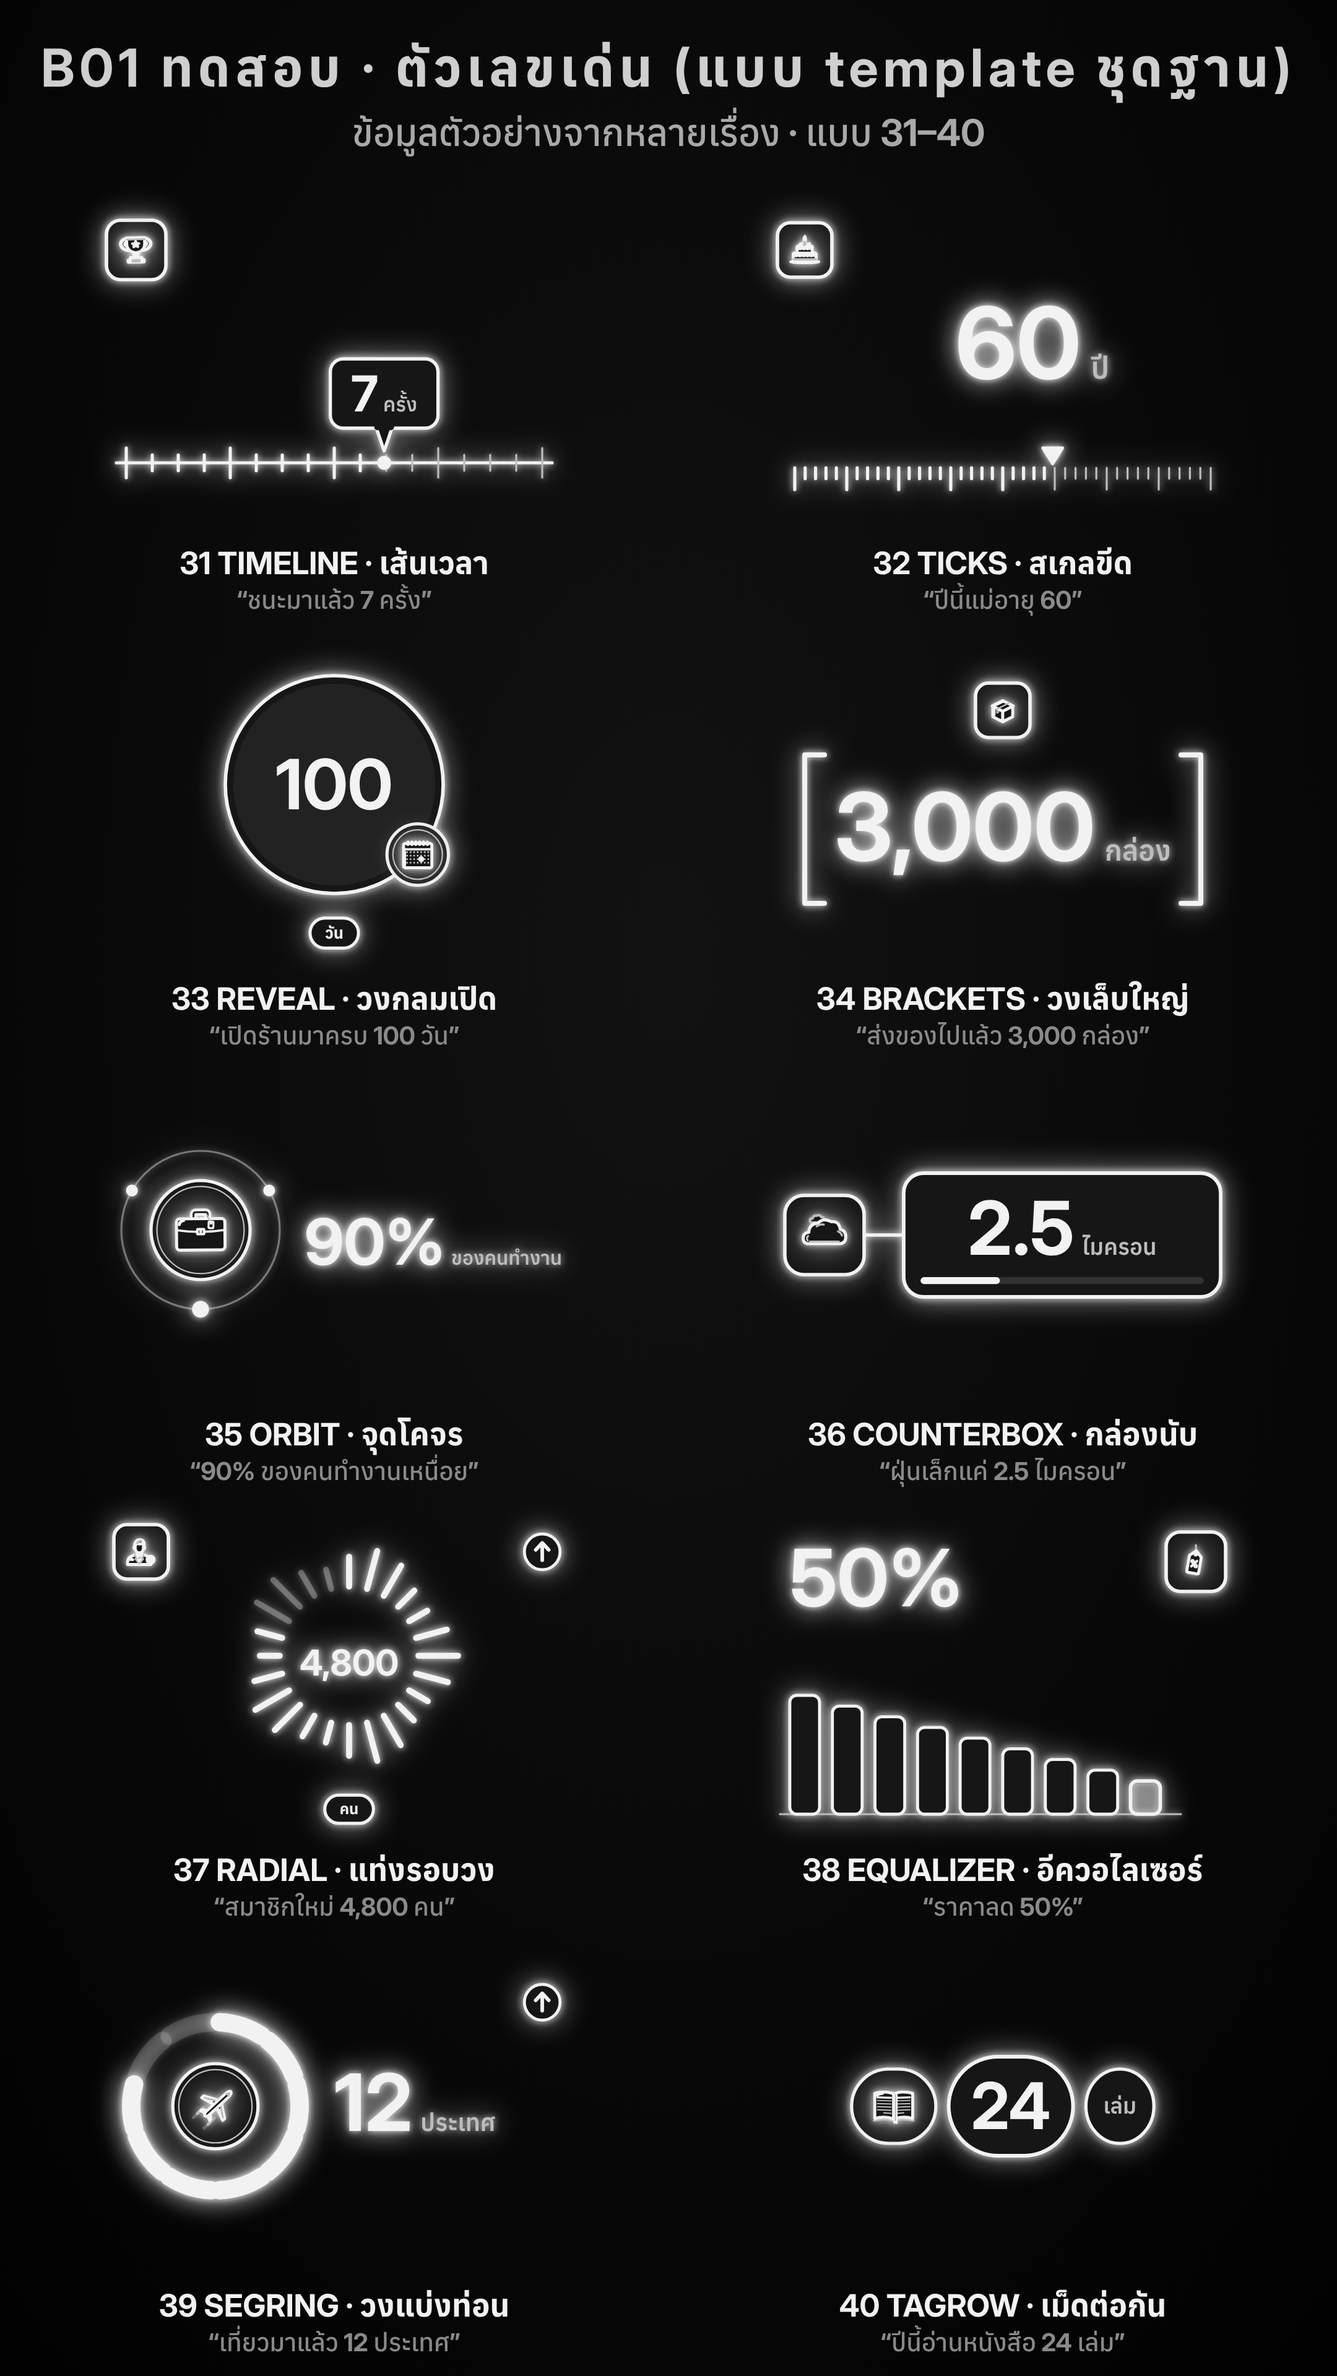
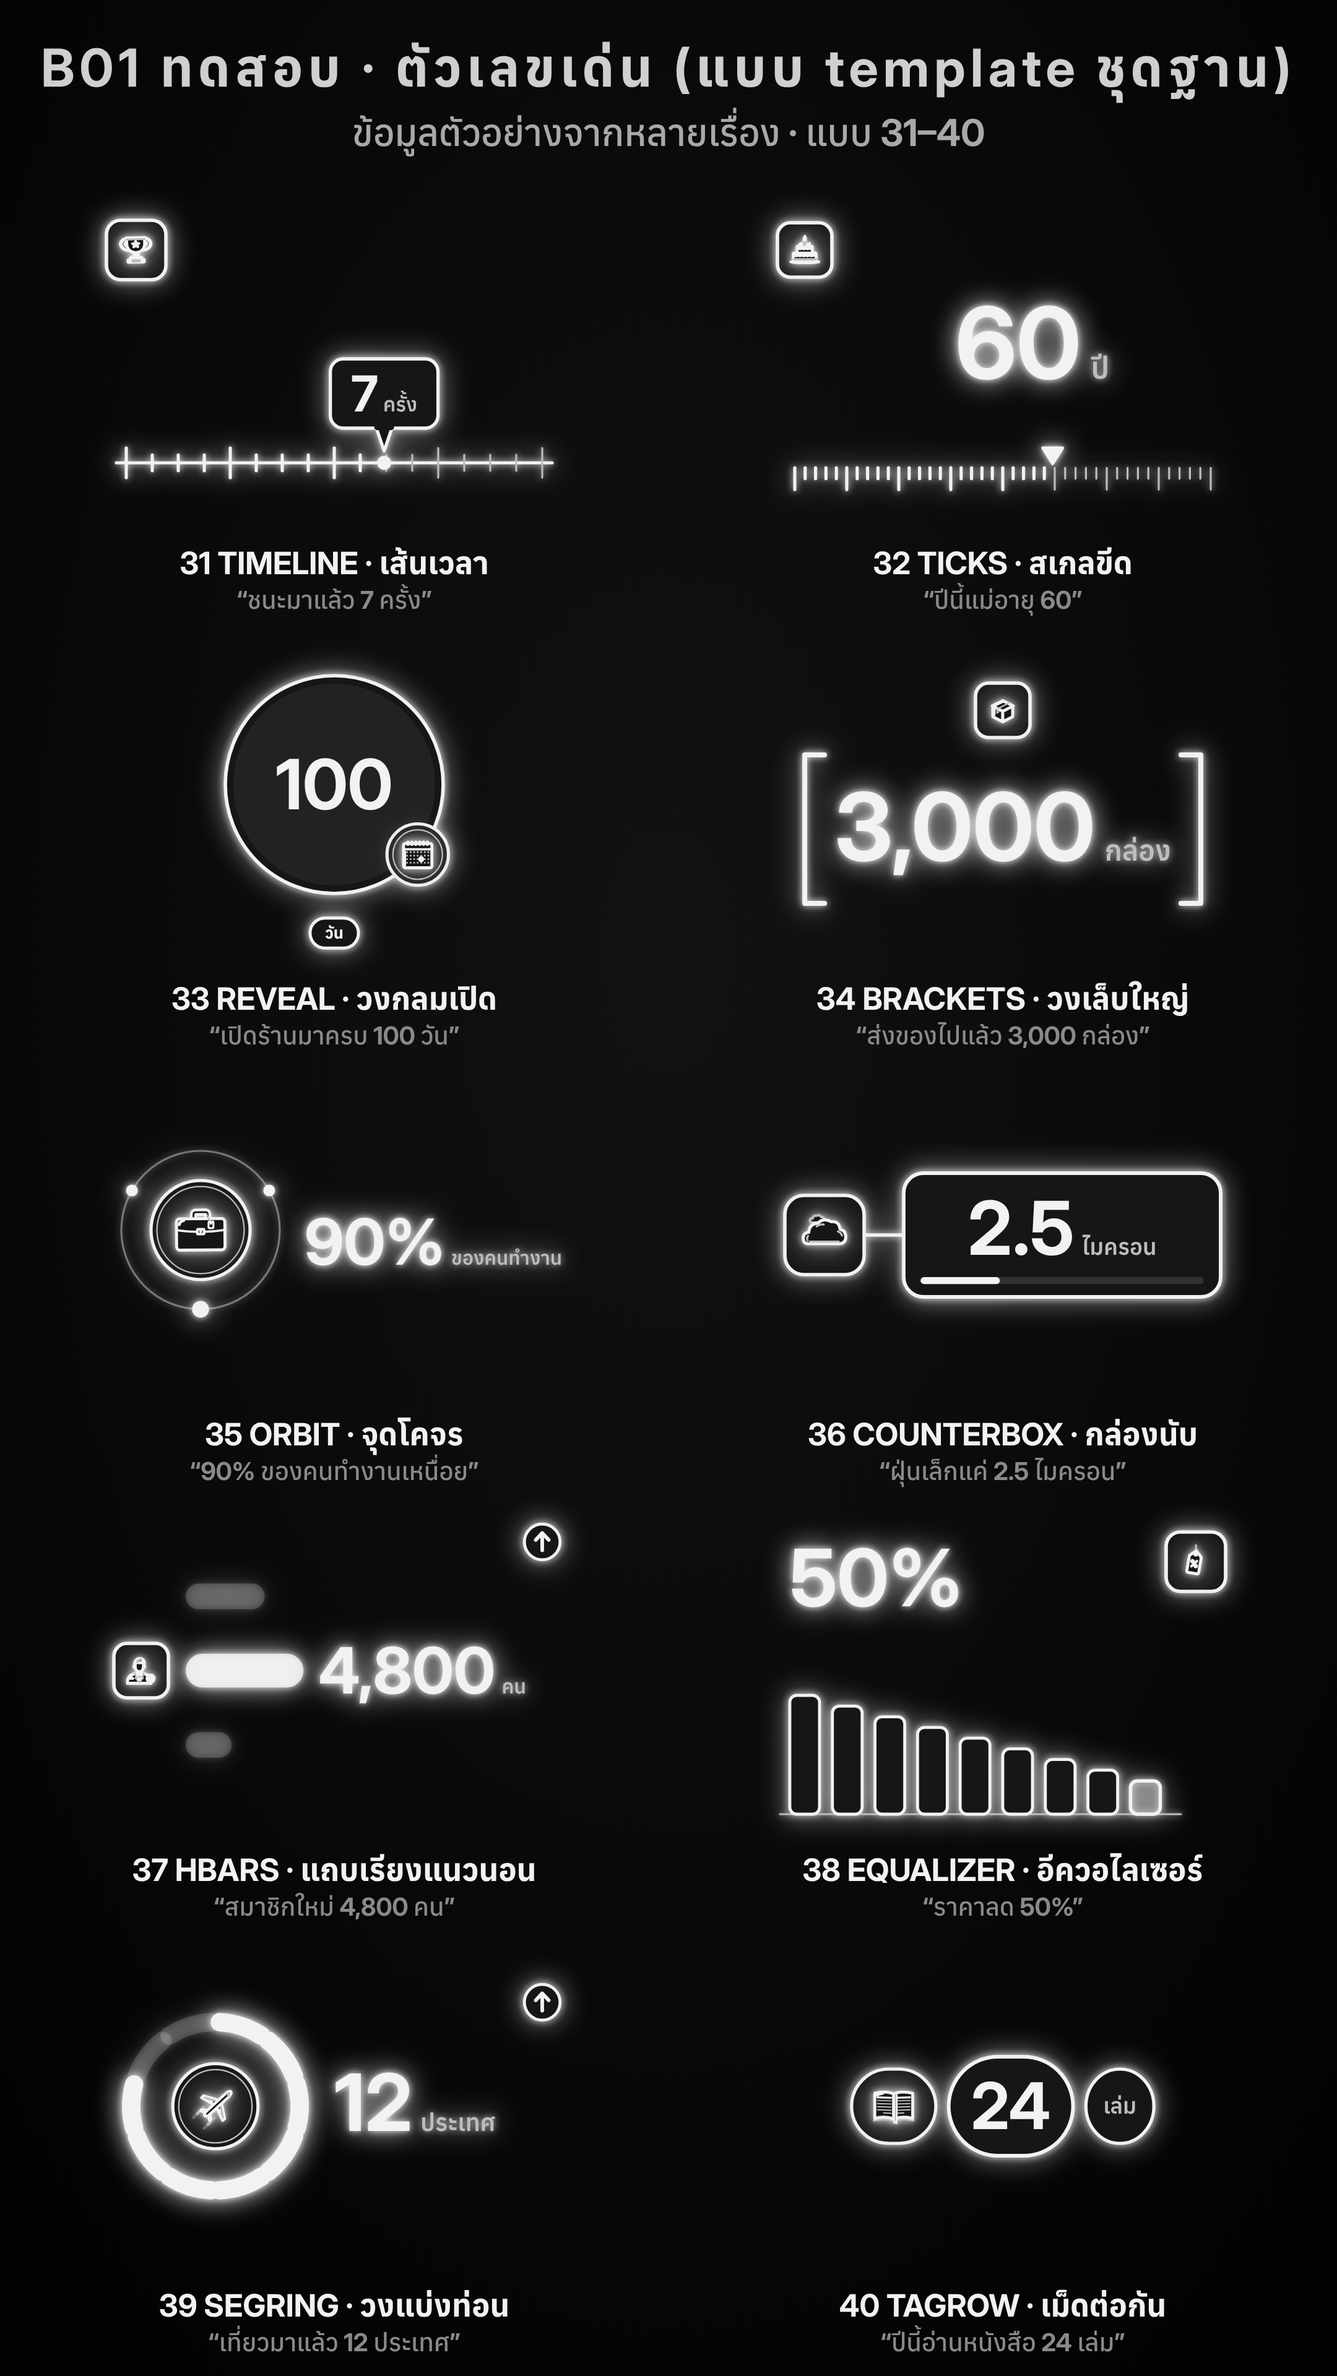
glow-line-motion: B01 ชุดฐาน แบบ 37 = แถบเรียงแนวนอน (ผู้ใช้เลือก A)
Claude-Session: https://claude.ai/code/session_014abtgrmcFVRoxK8wFuYFxB

Changed region(s): [[0.062, 0.625, 0.4032, 0.8125], [0.3722, 0.625, 0.4343, 0.6875], [0.3412, 0.7812, 0.4032, 0.8125]]

diff --git a/.claude/skills/glow-line-motion/examples/b01t/b01t.js b/.claude/skills/glow-line-motion/examples/b01t/b01t.js
@@ -883,14 +883,14 @@
       const n = numRow(p, p, v, u, (bx0 + bx1) / 2, cy + 40, { size: 150, maxW: bx1 - bx0 - 90, t0: tu(.36) }); if (n) ripple(p, n.cx, n.cy, 110, H);
     }); });
 
-  /* 37 ── RADIAL BARS (แท่งรอบวง): 24 short bars round a circle grow out in a clockwise wave; the ones up to the amount light; the number counts in the
-     centre, the unit pill under; the icon box drops top-left */
-  variant('radial', 'แท่งรอบวง', (d, c) => { const v = VAL(d), u = UN(d), ic = ICN(d), H = Z.H, fr = frac(d), cx = 30, cy = -30, r0 = 140, N = 24, t0 = tu(.4), t1 = f3(H - tu(.04));
-    art(c, p => { for (let k = 0; k < N; k++) { const a = -90 + k * 360 / N, len = 40 + 40 * (.5 + .5 * Math.sin(k * 1.3)), x = f1(cx + r0 * Math.cos(rad(a))), y = f1(cy + r0 * Math.sin(rad(a))), t = tu(.06 + .012 * k);
-        const g = mvG(p, { px: x, py: y, s: [[0, 0], [t, 0], [f3(t + tu(.2)), 1.1, 'out'], [f3(t + tu(.3)), 1, 'soft']], o: fadeIn(t, .04) }); tick(g, cx, cy, a, r0, r0 + len, { sw: 9, stroke: TL_(.3) });
-        if (k / N < fr - 1e-6) tick(litOn(p, f3(t0 + (t1 - t0) * (k / N) / Math.max(fr, .01))), cx, cy, a, r0, r0 + len, { sw: 9, stroke: ACC1 }); }
-      num(p, p, v, cx, cy + 40, { size: 110, maxW: 200, t0: tu(.3) }); ripple(p, cx, cy, r0 - 20, H); pill(p, u, cx, 280, { t: f3(H + tu(.06)), size: 30, maxW: 420 });
-      dropBox(p, c, ic, -390, -240, 110, tu(.04), tu(.26)); dirB(p, DIRV(d), 420, -240, f3(H + tu(.1)));
+  /* 37 ── RANKED BARS (แถบเรียงแนวนอน) — redesigned (user 2026-11-14 "Redesign 37" → picked A over callout / area peak; the radial bars are gone): three bars grow from the left one after another; the two soft ones stop short, the lit middle one runs on and
+     carries the number at its tip, locking on H; the icon box drops at the lit bar's start */
+  variant('hbars', 'แถบเรียงแนวนอน', (d, c) => { const v = VAL(d), u = UN(d), ic = ICN(d), H = Z.H, fr = Math.max(.25, frac(d)), x0 = ic ? -300 : -440, ys = [-150, 0, 150], t0 = tu(.34), t1 = f3(H - tu(.04));
+    art(c, p => { const rw = rowOf(p, v, u, 130, 420), room = 440 - rw - 30 - x0, L = Math.max(60, room * fr);
+      [[ys[0], .55], [ys[2], .32]].forEach(([y, k], i) => { const t = tu(.1 + .08 * i); R(mvG(p, { px: x0, py: y, sx: [[0, 0], [t, 0], [f3(t + tu(.4)), 1, 'out']], o: fadeIn(t, .04) }), x0, y - 26, Math.max(40, room * k), 52, 26, { fill: TL_(.18), sw: 0, stroke: 'none' }); });
+      R(mvG(p, { px: x0, py: ys[1], sx: fillK(t0, t1), o: fadeIn(t0, .04) }), x0, ys[1] - 34, L, 68, 34, { fill: TA(.85), sw: 0, stroke: 'none' });
+      const g = mvG(p, { x: [[0, f1(-L)], [t0, f1(-L)], [t1, 0, 'io']], o: fadeIn(t0, .04) }); numRow(p, g, v, u, x0 + L + 30, ys[1] + 46, { size: 130, maxW: 420, anchor: 'start', t0, g });
+      ripple(p, x0 + L, ys[1], 60, H); dropBox(p, c, ic, -390, ys[1], 110, tu(.04), tu(.26)); dirB(p, DIRV(d), 420, -260, f3(H + tu(.1)));
     }); });
 
   /* 38 ── EQUALIZER (อีควอไลเซอร์): nine bars bounce like a level meter while the number counts, then settle into a rising (or falling) line on H, the
@@ -1025,41 +1025,6 @@
       [[-90, -110, 1.3, .32], [-60, -72, 1.2, .24], [-30, -36, 1.1, .16]].forEach(([dx, dy, s, a], k) => { const t0 = tu(.12 + .06 * k), eg = mvG(p, { px: n.x0 + n.nw / 2, py: n.cy, x: [[0, dx], [t0, dx], [f3(H - tu(.04)), 0, 'io']], y: [[0, dy], [t0, dy], [f3(H - tu(.04)), 0, 'io']], s: [[0, s], [t0, s], [f3(H - tu(.04)), 1, 'io']], o: [[0, 0], [t0, 0], [f3(t0 + tu(.06)), 1], [f3(H - tu(.1)), 1], [H, 0]] });
         num(p, eg, v, n.x0, 110, { size: n.size, anchor: 'start', t0, still: true, g: eg, color: TL_(a) }); });
       ripple(p, n.cx, n.cy, 150, H); dropBox(p, c, ic, -400, -250, 110, tu(.04), tu(.26)); dirB(p, DIRV(d), 400, -250, f3(H + tu(.1)));
-    }); });
-
-  /* ---------- redesign 37 (user 2026-11-14 "Redesign 37" — the radial bars): three options, shown on sheet-37.html; the one picked replaces 37 ---------- */
-  /* 37A ── RANKED BARS (แถบเรียงแนวนอน): three bars grow from the left one after another; the two soft ones stop short, the lit middle one runs on and
-     carries the number at its tip, locking on H; the icon box drops at the lit bar's start */
-  variant('hbars', 'แถบเรียงแนวนอน', (d, c) => { const v = VAL(d), u = UN(d), ic = ICN(d), H = Z.H, fr = Math.max(.25, frac(d)), x0 = ic ? -300 : -440, ys = [-150, 0, 150], t0 = tu(.34), t1 = f3(H - tu(.04));
-    art(c, p => { const rw = rowOf(p, v, u, 130, 420), room = 440 - rw - 30 - x0, L = Math.max(60, room * fr);
-      [[ys[0], .55], [ys[2], .32]].forEach(([y, k], i) => { const t = tu(.1 + .08 * i); R(mvG(p, { px: x0, py: y, sx: [[0, 0], [t, 0], [f3(t + tu(.4)), 1, 'out']], o: fadeIn(t, .04) }), x0, y - 26, Math.max(40, room * k), 52, 26, { fill: TL_(.18), sw: 0, stroke: 'none' }); });
-      R(mvG(p, { px: x0, py: ys[1], sx: fillK(t0, t1), o: fadeIn(t0, .04) }), x0, ys[1] - 34, L, 68, 34, { fill: TA(.85), sw: 0, stroke: 'none' });
-      const g = mvG(p, { x: [[0, f1(-L)], [t0, f1(-L)], [t1, 0, 'io']], o: fadeIn(t0, .04) }); numRow(p, g, v, u, x0 + L + 30, ys[1] + 46, { size: 130, maxW: 420, anchor: 'start', t0, g });
-      ripple(p, x0 + L, ys[1], 60, H); dropBox(p, c, ic, -390, ys[1], 110, tu(.04), tu(.26)); dirB(p, DIRV(d), 420, -260, f3(H + tu(.1)));
-    }); });
-
-  /* 37B ── CALLOUT (เส้นชี้): a point (the icon plate) pulses twice; a leader line draws from it up and across; the number counts sitting on the line's
-     long arm and locks on H, the elbow flashing */
-  variant('callout', 'เส้นชี้', (d, c) => { const v = VAL(d), u = UN(d), ic = ICN(d), H = Z.H, px = -270, py = 140, ex = -60, ey = -60;
-    art(c, p => { if (ic) icirc(p, c, ic, px, py, 92, tu(.06), { punch: H }); else { popAt(p, px, py, tu(.06)).circle(px, py, 26, { fill: ACC1, sw: 2, stroke: ACC1 }); p.circle(px, py, 46, S(2)); }
-      [tu(.2), tu(.5)].forEach(t => ripple(p, px, py, ic ? 100 : 50, t)); const sx = f1(px + (ic ? 70 : 36)), sy = f1(py - (ic ? 70 : 36));
-      on(p.path(`M ${sx} ${sy} L ${ex} ${ey} L 450 ${ey}`, { sw: 4, stroke: ACC1 }), p, 0, { draw: [[0, 0], [tu(.3), 0], [tu(.62), 1, 'io']] });
-      const fl = popAt(p, ex, ey, tu(.46)); fl.circle(ex, ey, 12, { fill: ACC1, sw: 2, stroke: ACC1 }); ripple(p, ex, ey, 30, H);
-      const n = numRow(p, p, v, u, ex + 10, ey - 30, { size: 170, maxW: 500, anchor: 'start', t0: tu(.5) }); dirB(p, DIRV(d), 420, 150, f3(H + tu(.1)));
-    }); });
-
-  /* 37C ── AREA PEAK (กราฟพื้นที่): a soft area rises from the baseline while its top edge draws (climbing when up, falling when down, a hill otherwise);
-     a dot runs up to the peak and a pill with the number pops above it, locking on H; the icon box drops top-left */
-  variant('peak', 'กราฟพื้นที่', (d, c) => { const v = VAL(d), u = UN(d), ic = ICN(d), H = Z.H, dr = DIRV(d), by = 280, t0 = tu(.2), t1 = f3(H - tu(.2));
-    const fy = x => { const q = (x + 440) / 880; return dr === 'up' ? by - 40 - 300 * Math.pow(q, 1.6) + 18 * Math.sin(q * 9) : dr === 'down' ? by - 340 + 300 * Math.pow(q, .8) + 18 * Math.sin(q * 9) : by - 40 - 300 * Math.exp(-Math.pow((q - .62) / .22, 2)) + 14 * Math.sin(q * 11); };
-    const pts = Array.from({ length: 45 }, (_, k) => { const x = -440 + 20 * k; return [x, f1(fy(x))]; }); let pk = pts[0]; pts.forEach(q => { if (q[1] < pk[1]) pk = q; });
-    art(c, p => { drawAt(p.line(-450, by, 450, by, S(2)), p, tu(.04), tu(.3));
-      p.path(pathOf(pts.concat([[440, by], [-440, by]])), { fill: TA(.09), sw: 0, stroke: 'none' }); on(p.g.lastChild, p, 0, { ox: 0, oy: by, sy: [[0, 0], [t0, 0], [t1, 1, 'out']], o: fadeIn(t0, .04) });
-      on(p.path(pathOf(pts, false), { sw: 4.4, stroke: ACC1 }), p, 0, { draw: [[0, 0], [t0, 0], [t1, 1, 'lin']] });
-      const upTo = pts.slice(0, pts.indexOf(pk) + 1), K = pathK(upTo.length > 1 ? upTo : [pk, pk], t0, f3(H - tu(.06)), pk, 30, x => x); mvG(p, { x: K.x, y: K.y, o: fadeIn(t0, .04) }).circle(pk[0], pk[1], 14, { fill: ACC1, sw: 2, stroke: ACC1 }); ripple(p, pk[0], pk[1], 40, H);
-      const pw = Math.min(560, (v ? tw(p, v, 100) : 100) + (u ? tw(p, u, 34, 600) + 18 : 0) + 70), bx = Math.max(-480 + pw / 2, Math.min(480 - pw / 2, pk[0])), byy = pk[1] - 110, pg = popAt(p, bx, byy, tu(.4));
-      R(pg, bx - pw / 2, byy - 66, pw, 132, 66, F(3.6)); numRow(p, pg, v, u, bx, byy + 34, { size: 100, maxW: pw - 50, t0: tu(.42), g: pg });
-      dropBox(p, c, ic, -400, -250, 110, tu(.04), tu(.26));
     }); });
 
   /* ---------- sample data: the same as B01 (A: sentences from unrelated topics · B: stress) ---------- */

diff --git a/.claude/skills/glow-line-motion/HANDOFF.md b/.claude/skills/glow-line-motion/HANDOFF.md
@@ -100,13 +100,13 @@
   **เพิ่มอีก 30 แบบ (ผู้ใช้: "ออกแบบเพิ่มอีก 30 อัน") → รวม 50 แบบ**, แผ่น `sheet-A3…A5` / `B3…B5` (ข้อมูลวนใช้ `data[i % 20]`), ภาพ `b01t-A3…B5.png`:
   21 chipnum ชิปไอคอน · 22 halo วงซ้อน · 23 corners มุมล็อกกรอบ · 24 badge ป้ายมุม · 25 vbar แท่งแนวตั้ง · 26 steps ขั้นบันได (จุดกระโดดขึ้นทีละขั้น) · 27 grid9 ตาราง 9 ช่อง ·
   28 toggle สวิตช์ · 29 dualring วงสองชั้น · 30 waffle ตารางสี่เหลี่ยม 10×10 · 31 timeline เส้นเวลา · 32 ticks สเกลขีด · 33 reveal วงกลมเปิด · 34 brackets วงเล็บใหญ่ · 35 orbit จุดโคจร ·
-  36 counterbox กล่องนับ · 37 radial แท่งรอบวง · 38 equalizer อีควอไลเซอร์ · 39 segring วงแบ่งท่อน · 40 tagrow เม็ดต่อกัน · 41 chipstack ชิปซ้อนชั้น · 42 arrow ลูกศรพุ่ง ·
+  36 counterbox กล่องนับ · 37 hbars แถบเรียงแนวนอน (แทน radial) · 38 equalizer อีควอไลเซอร์ · 39 segring วงแบ่งท่อน · 40 tagrow เม็ดต่อกัน · 41 chipstack ชิปซ้อนชั้น · 42 arrow ลูกศรพุ่ง ·
   43 splitcard การ์ดประกบ · 44 notice การ์ดแจ้งเตือน · 45 dotpath จุดเชื่อมเส้น · 46 target เป้าล็อก · 47 hexnum หกเหลี่ยม · 48 ticker แถบเลื่อน · 49 merge วงรวมตัว · 50 echo เงาซ้อนตัวเลข.
   helper เพิ่ม: `icirc()` แผ่นกลมไอคอน · `rowOf()` · `hexD()` · `spinR()`. ใช้สีจากธีมทั้งหมด (ตรวจธีม = 0). แก้: การ์ดประกบมีเส้นรอยต่อผ่านตัวเลข → path เปิดที่รอยต่อ ·
   แท่งรอบวงตัวเลขชนแท่ง → เล็กลง. ส่งภาพแล้ว รอความเห็น · วิดีโอยังไม่ทำ.
-  **Redesign 37** (ผู้ใช้: "Redesign 37" — แท่งรอบวง): เสนอ 3 ทาง `sheet-37.html` / `b01t-redesign37.png`: A hbars แถบเรียงแนวนอน (ตัวเลขขี่ปลายแถบ) ·
-  B callout เส้นชี้ (จุดไอคอน → เส้นหักมุม → ตัวเลขบนเส้น) · C peak กราฟพื้นที่ (ป้ายตัวเลขเหนือยอด). ตอนนี้อยู่ท้าย `V` เป็นแบบ 51–53 ชั่วคราว —
-  **รอผู้ใช้เลือก** แล้วย้ายตัวที่เลือกไปแทน 37 (radial) และลบอีกสองตัว. ความเร็ว: ใช้ TIMING เดียวกับ B01–B21 (`speed`, `hit`) — ผู้ใช้ถามแล้ว ตอบว่าได้เหมือนกัน.
+  **Redesign 37** (ผู้ใช้: "Redesign 37" — แท่งรอบวง radial): เสนอ 3 ทาง (A hbars แถบเรียงแนวนอน · B callout เส้นชี้ · C peak กราฟพื้นที่) → ผู้ใช้ **"A"** →
+  แบบ 37 = `hbars` แถบเรียงแนวนอน (สองแถบจางหยุดสั้น แถบกลางสว่างยืดพาตัวเลขไปที่ปลาย). radial / callout / peak ลบแล้ว. รสนิยมที่เห็น: ไม่เอาแท่งรอบวง.
+  ความเร็ว: ใช้ TIMING เดียวกับ B01–B21 (`speed`, `hit`) — ผู้ใช้ถามแล้ว ตอบว่าได้เหมือนกัน.
   **สวิตช์สี (ผู้ใช้: "ทำให้มันเปลี่ยนสีได้"):** `GL.cats.B01T.theme({ bg, line, fill, soft, accent })` หลัง `GL.stage()` (bg = สีเดียวหรือ [กลาง, ขอบ]; `theme()` = ขาวค่าเริ่ม).
   ตั้ง `GL.C` + พื้นหลัง `#glbg`; สีเน้น (accent) = ตัวเลข + ส่วนที่สว่าง (ส่วนที่เติม จุด/ช่องติดไฟ ขีด เส้นใต้); สีจาง ๆ ทำจาก line/accent ทั้งหมด (`TL_()` `TA()`) ไม่มีขาวตายตัวแล้ว.
   แผ่น `sheet-colors.html` ลอง 5 ชุด: ขาว · ฟ้าอ่อน · ส้มอำพัน · เขียวมิ้นต์ · ชมพู. **b05t / cards.js ยังไม่มีสวิตช์นี้** (ยังมีขาวโปร่งตายตัว) — ทำแบบเดียวกันได้ถ้าผู้ใช้สั่ง.
